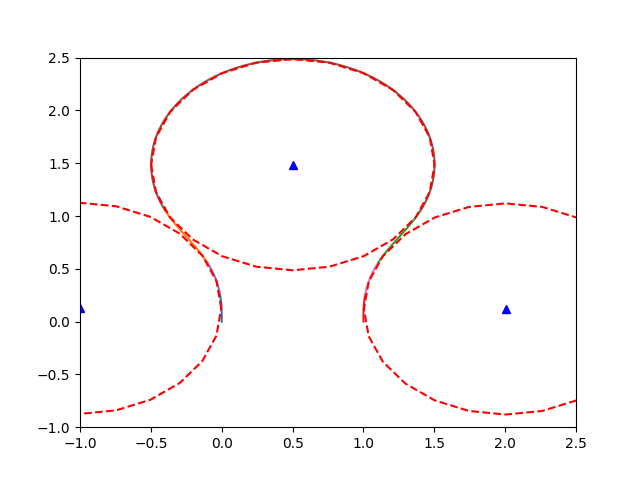
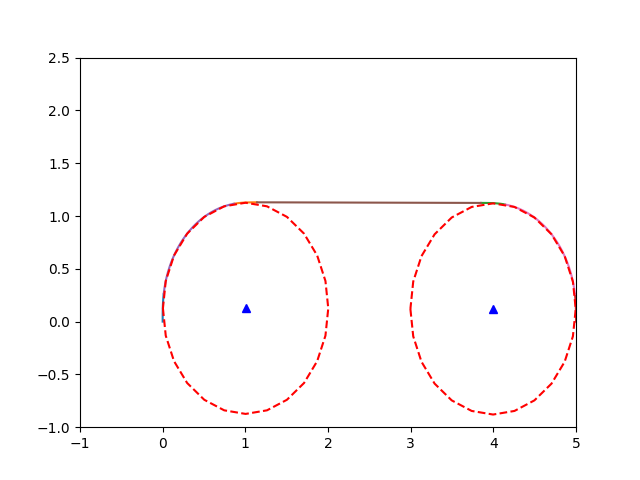
fixed some bugs

diff --git a/BackmanAlgorithm/SmoothPlanner.py b/BackmanAlgorithm/SmoothPlanner.py
@@ -24,12 +24,12 @@ class SmoothPathPlanner:
         self.kDDotMax = kConstraints[4]
         self.kDDotMin = kConstraints[5]
 
-        self.vMax = kConstraints[0]
-        self.vMin = kConstraints[1]
-        self.vDotMax = kConstraints[2]
-        self.vDotMin = kConstraints[3]
-        self.vDDotMax = kConstraints[4]
-        self.vDDotMin = kConstraints[5]
+        self.vMax = vConstraints[0]
+        self.vMin = vConstraints[1]
+        self.vDotMax = vConstraints[2]
+        self.vDotMin = vConstraints[3]
+        self.vDDotMax = vConstraints[4]
+        self.vDDotMin = vConstraints[5]
 
         self.headlandSpeed = headlandSpeed
         self.headlandSpeedReverse = headlandSpeedReverse
@@ -117,7 +117,7 @@ class SmoothPathPlanner:
         if (len(kTraj) < len(vTraj)) and not fromStart:  # cut from end of vTraj
             vTraj = vTraj[0:len(kTraj)]
         elif (len(kTraj) < len(vTraj)) and fromStart:  # cut from start of vTraj
-            vTraj = vTraj[len(vTraj) - len(kTraj):len(vTraj)]
+            vTraj = vTraj[len(vTraj) - len(kTraj):len(vTraj)] - np.array([0, vTraj[len(vTraj) - len(kTraj)][1]])
         elif (len(kTraj) > len(vTraj)) and not fromStart: # add to end of vTraj
             vTraj = np.append(vTraj, np.array(
                 [[vTraj[-1][0], kTraj[i + len(vTraj)][1]]  for i in range((len(kTraj) - len(vTraj)))]), axis=0)
@@ -264,15 +264,14 @@ class SmoothPathPlanner:
 
             if len(v_S1) > len(trajectories['vTraj']):
                 cut_v_S1 = True
-                cut_v_S1_index = len(trajectories['vTraj'])-1
+                cut_v_S1_index = len(trajectories['vTraj'])
             else:
                 cut_v_S1 = False
-                v_C1 = trajectories['vTraj'][-1][0]
+                v_C1 = np.array([[trajectories['vTraj'][-1][0], 0],[trajectories['vTraj'][-1][0], self.dT]]) # TODO: fix this and add clause to generate CC and line segment
             xo = [self.initialState.x, self.initialState.y,
                   self.initialState.theta]
             self.S1 = SpiralSegment(trajectories['kTraj'], trajectories['vTraj'], xo)
             
-
             ################ generate last connecting spiral ################
             K_S4 = self.generateCurvatureTrajectory(self.k_C3, self.k_C4, 0)
             v_S4 = self.generateSpeedTrajectory(
@@ -284,7 +283,7 @@ class SmoothPathPlanner:
                 cut_v_S4_index = len(v_S4) - len(trajectories['vTraj'])
             else:
                 cut_v_S4 = False
-                v_C3 = trajectories['vTraj'][0][0]
+                v_C3 = np.array([[trajectories['vTraj'][0][0], 0],[trajectories['vTraj'][0][0], self.dT]])
 
             xo = [0, 0, 0]
             self.S4 = SpiralSegment(
@@ -296,6 +295,7 @@ class SmoothPathPlanner:
             K_S2 = self.generateCurvatureTrajectory(self.k_C1, self.k_C2, 0)
             xo = [0, 0, 0]
             #TODO: special circumstance where K trajectory is not long enough to allow for changes to velocity, in this case extend K trajectory by adding zeros to end.
+
             if self.reverse:
                 v_S2 = self.generateSpeedTrajectory(self.headlandSpeed, 0, 0)
                 v_S2 = np.append(v_S2, self.generateSpeedTrajectory(
@@ -311,7 +311,7 @@ class SmoothPathPlanner:
                                             for i in range(len(K_S2) - len(v_S2))])
                     v_S2 = np.append(v_S2, extend_v_S2, axis=0)
                 else:
-                    v_S2 = np.array([[v_C1, K_S2[i][1]] for i in range(len(K_S2))])
+                    v_S2 = np.array([[v_C1[0][0], K_S2[i][1]] for i in range(len(K_S2))])
 
                 self.S2 = SpiralSegment(K_S2, v_S2, xo)
 
@@ -334,7 +334,7 @@ class SmoothPathPlanner:
                                             for i in range(len(K_S3) - len(v_S3))])
                     v_S3 = np.append(v_S3, extend_v_S3, axis=0)
                 else:
-                    v_S3 = np.array([[v_C3, K_S3[i][1]] for i in range(len(K_S3))])
+                    v_S3 = np.array([[v_C3[0][0], K_S3[i][1]] for i in range(len(K_S3))])
 
                 self.S3 = SpiralSegment(K_S3, v_S3, xo)
 
@@ -382,6 +382,8 @@ class SmoothPathPlanner:
                     continue
                 
                 ################ make C2 segment ################
+                v_C2 = np.array([[1,0],[1,0]])
+                self.C2 = LineSegment(v_C2 , self.S2.poses[-1], self.S3.poses[0], self.dT)
 
             ################ generate C1 and C3 ################
             v_C1 = np.array([[self.headlandSpeed, self.dT * i] for i in range(100)])
@@ -389,8 +391,7 @@ class SmoothPathPlanner:
 
             v_C3 = np.array([[self.headlandSpeed, self.dT * i] for i in range(100)])
             self.C3 = CCSegment(self.k_C3, v_C3, self.S3.poses[-1], self.S4.poses[0], self.omega_kplus2, self.dT)
-
-
+            
             self.path_is_not_feasible = False
 
         # plotting stuff
@@ -424,7 +425,7 @@ class SmoothPathPlanner:
         # for i in range(0, len(self.S4.poses), int(len(self.S2.poses)/10)):
         #     plt.arrow(self.S4.poses[i][0], self.S4.poses[i][1], 0.1*cos(self.S4.poses[i][2]), 0.1*sin(self.S4.poses[i][2]), length_includes_head = True, width = 0.01, head_width = 0.03, color = 'r', alpha = 0.5)
 
-        plt.xlim([-1, 2.5])
+        plt.xlim([-1, 5])
         plt.ylim([-1, 2.5])
         plt.savefig("trajectory.png")
 
@@ -435,7 +436,7 @@ def main():
 
     # x pos., ypos., orientation, speed, curvature
     initialState = SmoothPathState(0, 0, 0.5*np.pi, 1, 0)
-    finalState = SmoothPathState(1, 0, -0.5*np.pi, 1, 0)
+    finalState = SmoothPathState(5.0, 0, -0.5*np.pi, 1, 0)
     L_w = 1.0
     gamma_max = np.pi/4.0
     
@@ -453,7 +454,7 @@ def main():
 
     vMax = 1.0
     vMin = -vMax
-    vDotMax = 1.0
+    vDotMax = 0.5
     vDotMin = -.75
     vDDotMax = 1.0
     vDDotMin = -1.0
@@ -473,7 +474,7 @@ def main():
 
     planSmoothInst = SmoothPathPlanner()
 
-    pathType = LRL
+    pathType = RSR
     planSmoothInst.setConstraints(
         kConstraints, vConstraints, headlandSpeed, headlandSpeedReverse)
     planSmoothInst.setNominalCurvatures(

diff --git a/BackmanAlgorithm/PathSegment.py b/BackmanAlgorithm/PathSegment.py
@@ -168,10 +168,10 @@ class CCSegment(PathSegment):
 
         arcLen = r*np.abs(ang2-ang1)
         maxTimeToTraverse = arcLen/np.amin(vTraj.T[0])
-        maxStepsToTraverse = int(maxTimeToTraverse/dT)
+        maxStepsToTraverse = int(maxTimeToTraverse/dT) +1
 
         self.poses = np.zeros([maxStepsToTraverse+1,3])
-        self.controls = np.zeros([maxStepsToTraverse+1,2])
+        self.controls = np.zeros([maxStepsToTraverse,2])
 
         ang = ang1
         i = 0 #counter
@@ -189,19 +189,48 @@ class CCSegment(PathSegment):
                 v_index = v_index + 1
 
         self.poses = self.poses[0:i] #trim excess
+        self.controls = self.controls[0:i] #trim excess
 
 class LineSegment(PathSegment):
 
-    def __init__(self, speed, start, end, phi, dT):
+    def __init__(self, vTraj, start, end, dT):
         """
         Generates a line segment from start to end coordinates, with given direction, and speed profile. 
 
         Input: 
-            curvaure: curvature of constant arc (float)
             vTraj: velocity profile of constant arc segment (Nx2 array of floats)
             start: SE2 position of start point (1x2 array of floats)
             end: SE2 position of end point (1x2 array of floats)
-            phi: direction angle wrt to horizontal axis
             dT: timestep, must be timestep of overall planning profile (float)
         """
         
+        segmentLength = np.linalg.norm(end[0:2]-start[0:2])
+        maxTimeToTraverse = segmentLength/np.amin(vTraj.T[0])
+        maxStepsToTraverse = int(maxTimeToTraverse/dT) + 1
+
+        self.poses = np.zeros([maxStepsToTraverse,3])
+        self.controls = np.zeros([maxStepsToTraverse,2])
+
+        pose = start
+        v_index = 0
+        i = 0
+
+        dirVec = (end[0:2]-start[0:2])/segmentLength
+
+        while np.linalg.norm(end[0:2] - pose[0:2]) > (dT*np.amax(vTraj.T[0])):
+            
+            pose = np.append(pose[0:2] + np.array(dirVec*vTraj[v_index][0]*dT), start[2]) 
+    
+            self.poses[i] = pose
+            self.controls[i] = np.array([vTraj[v_index][0], 0.0])
+
+            i = i + 1
+            if v_index < len(vTraj) - 1:
+                v_index = v_index + 1
+
+        self.poses = self.poses[0:i] #trim excess
+        self.controls = self.controls[0:i] #trim excess
+
+
+
+

diff --git a/BackmanAlgorithm/UnitTests.py b/BackmanAlgorithm/UnitTests.py
@@ -1,8 +1,6 @@
-import PathSegment
+from SmoothPlanner import SmoothPathPlanner
 
 
-def pathSegmentTest():
-    return 0
 
 def main():
     pathSegmentTest()
